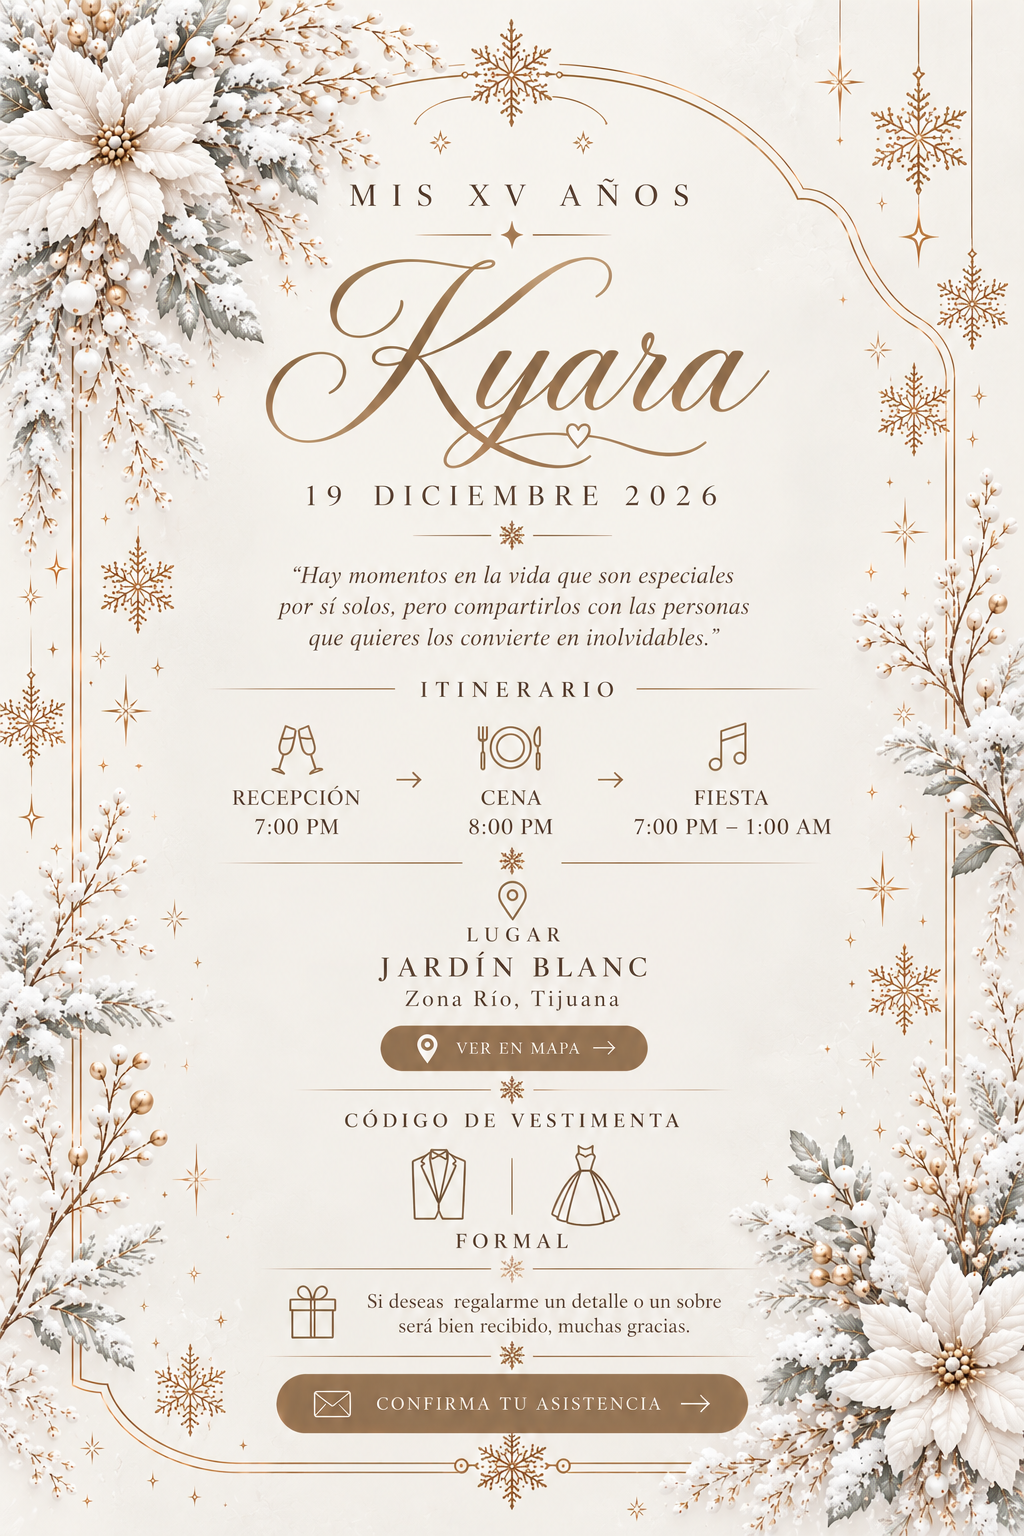
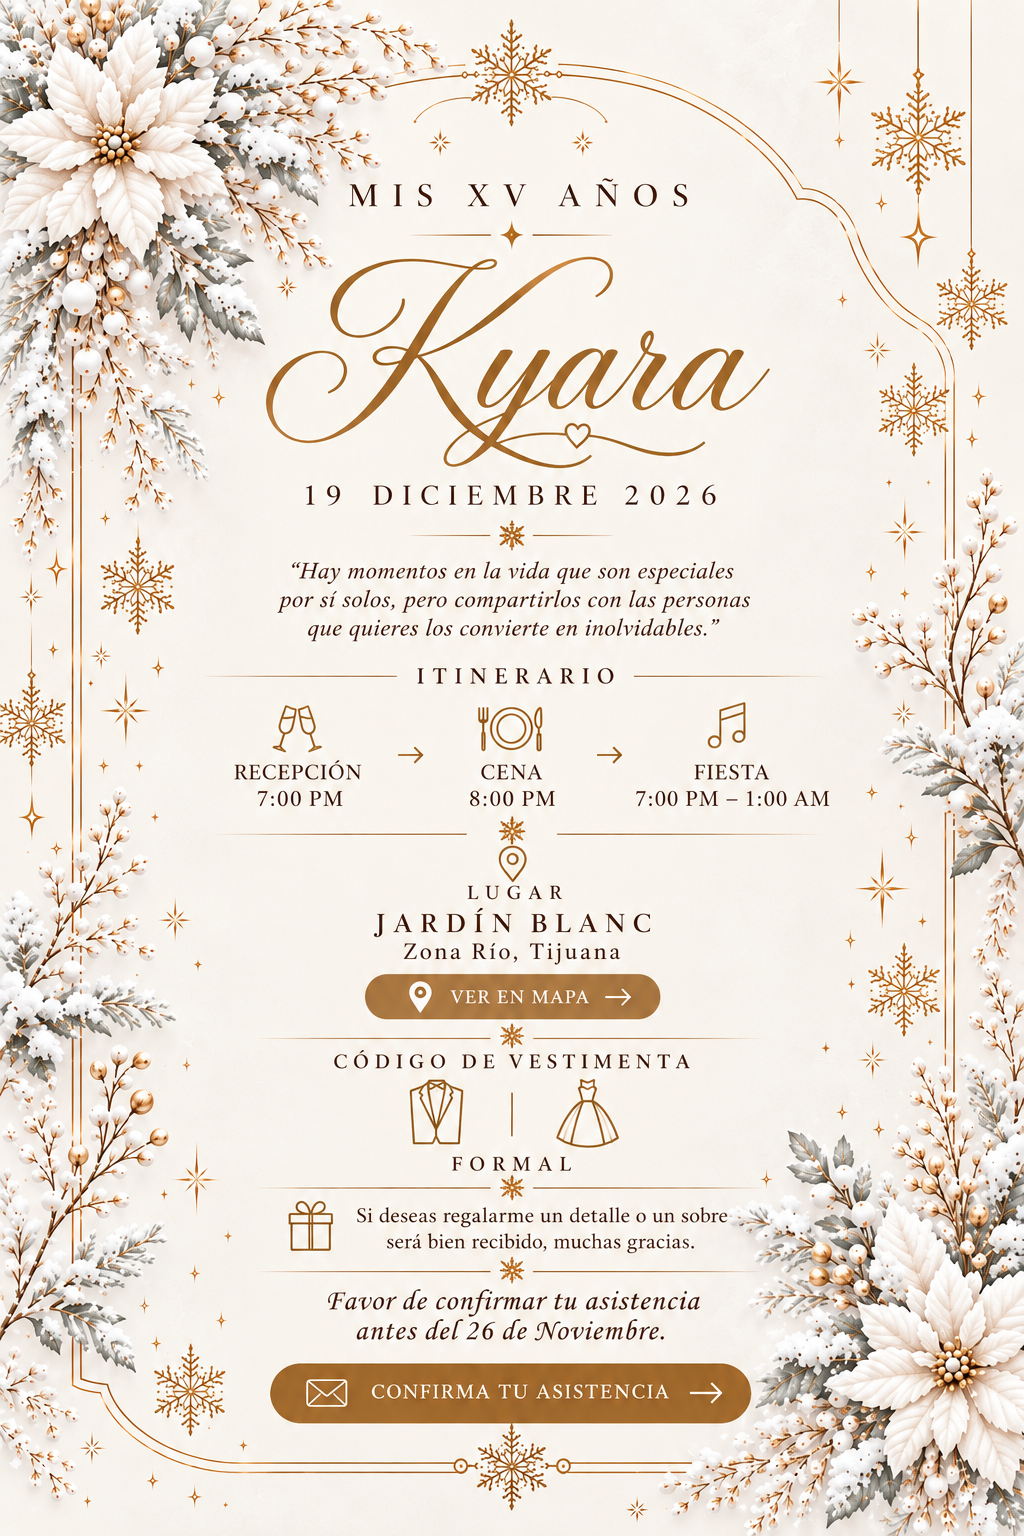
Replace invitation image; re-measure hotspots and update alt text
Claude-Session: https://claude.ai/code/session_01EhMmLCjvH7rj2cAmUXkw1n

diff --git a/index.html b/index.html
@@ -40,9 +40,9 @@
     <div class="side flip" aria-hidden="true" style="left:100%"></div>
     <div class="side" aria-hidden="true" style="left:200%"></div>
     <div class="side flip" aria-hidden="true" style="left:300%"></div>
-    <img src="assets/invitacion.png" alt="Invitación Mis XV Años, Kyara. 19 de diciembre de 2026. Itinerario: Recepción 7:00 PM, Cena 8:00 PM, Fiesta 7:00 PM a 1:00 AM. Lugar: Jardín Blanc, Zona Río, Tijuana. Código de vestimenta: formal. Si deseas regalarme un detalle o un sobre será bien recibido, muchas gracias.">
-    <a class="hot" href="https://www.google.com/maps/search/?api=1&amp;query=Jard%C3%ADn+Blanc+Zona+R%C3%ADo+Tijuana" target="_blank" rel="noopener" aria-label="Ver en mapa: Jardín Blanc, Zona Río, Tijuana" style="left:37.1%;top:66.75%;width:26.2%;height:3.05%"></a>
-    <a class="hot" href="confirmar.html" aria-label="Confirma tu asistencia" style="left:27%;top:89.4%;width:46.1%;height:3.85%"></a>
+    <img src="assets/invitacion.png" alt="Invitación Mis XV Años, Kyara. 19 de diciembre de 2026. Itinerario: Recepción 7:00 PM, Cena 8:00 PM, Fiesta 7:00 PM a 1:00 AM. Lugar: Jardín Blanc, Zona Río, Tijuana. Código de vestimenta: formal. Si deseas regalarme un detalle o un sobre será bien recibido, muchas gracias. Favor de confirmar tu asistencia antes del 26 de noviembre.">
+    <a class="hot" href="https://www.google.com/maps/search/?api=1&amp;query=Jard%C3%ADn+Blanc+Zona+R%C3%ADo+Tijuana" target="_blank" rel="noopener" aria-label="Ver en mapa: Jardín Blanc, Zona Río, Tijuana" style="left:35.9%;top:63.5%;width:28.4%;height:2.9%"></a>
+    <a class="hot" href="confirmar.html" aria-label="Confirma tu asistencia" style="left:26.6%;top:88.8%;width:46.6%;height:3.85%"></a>
   </div>
 </main>
 </body>

diff --git a/CLAUDE.md b/CLAUDE.md
@@ -32,8 +32,8 @@ XVinv/
    image, positioned in **% of the card** so they scale with it:
    | Button | left | top | width | height | href |
    |---|---|---|---|---|---|
-   | VER EN MAPA | 37.1% | 66.75% | 26.2% | 3.05% | Google Maps search for Jardín Blanc, Zona Río, Tijuana |
-   | CONFIRMA TU ASISTENCIA | 27% | 89.4% | 46.1% | 3.85% | `confirmar.html` (RSVP subpage, same tab) |
+   | VER EN MAPA | 35.9% | 63.5% | 28.4% | 2.9% | Google Maps search for Jardín Blanc, Zona Río, Tijuana |
+   | CONFIRMA TU ASISTENCIA | 26.6% | 88.8% | 46.6% | 3.85% | `confirmar.html` (RSVP subpage, same tab) |
    Percentages come from pixel boxes on the 1024×1536 image (x/1024, y/1536).
    Hover/focus is a soft white ring + warm shadow only; never draw a visible button over the art.
 
